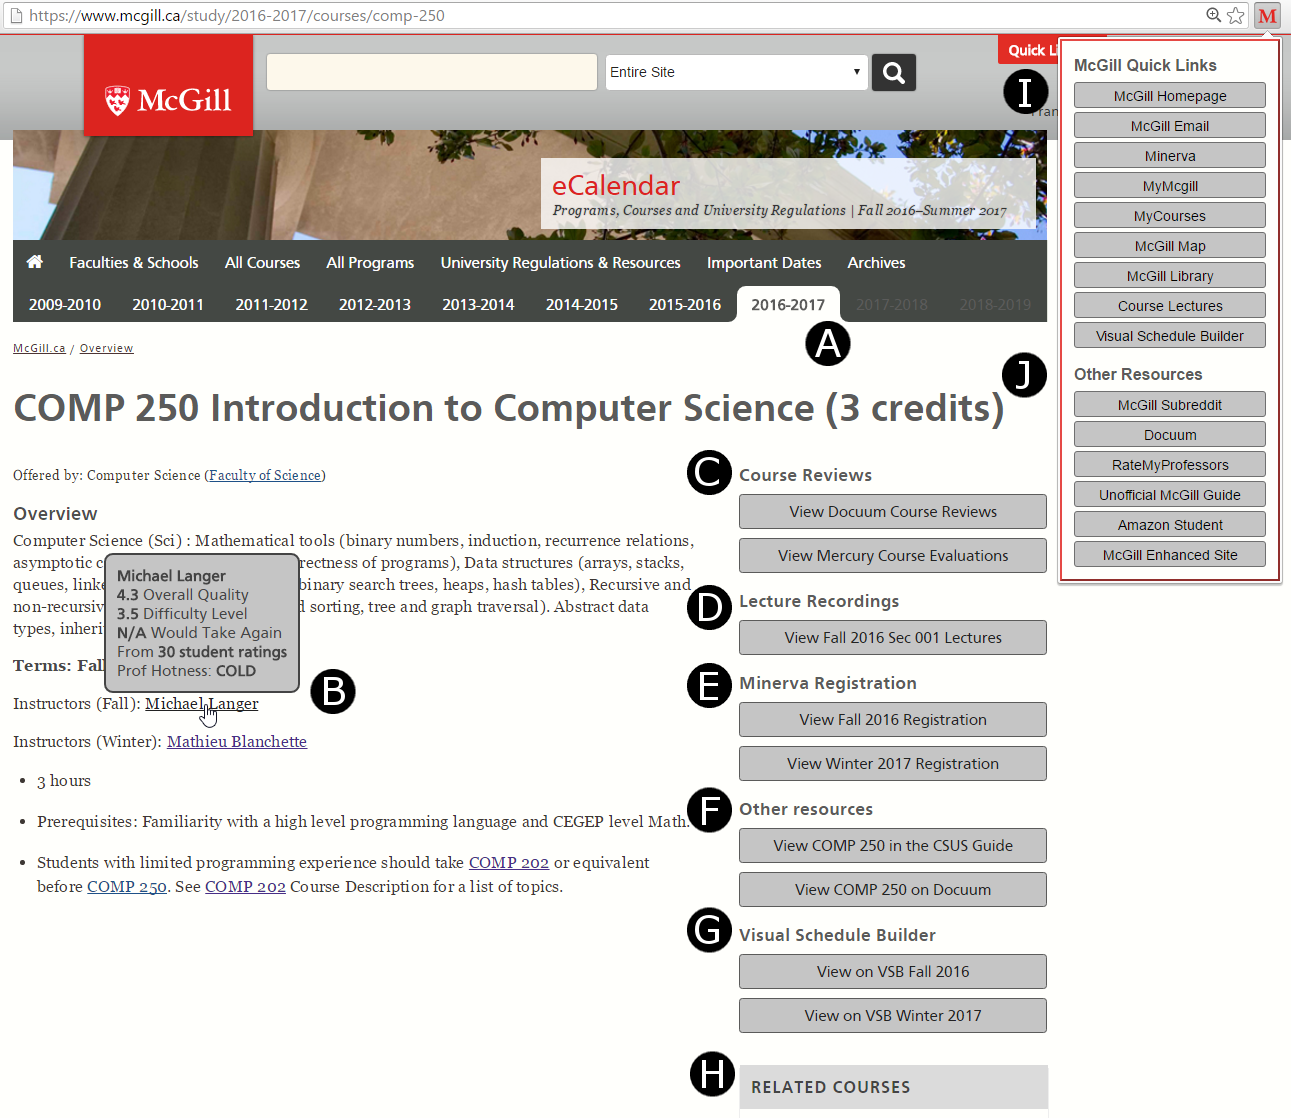
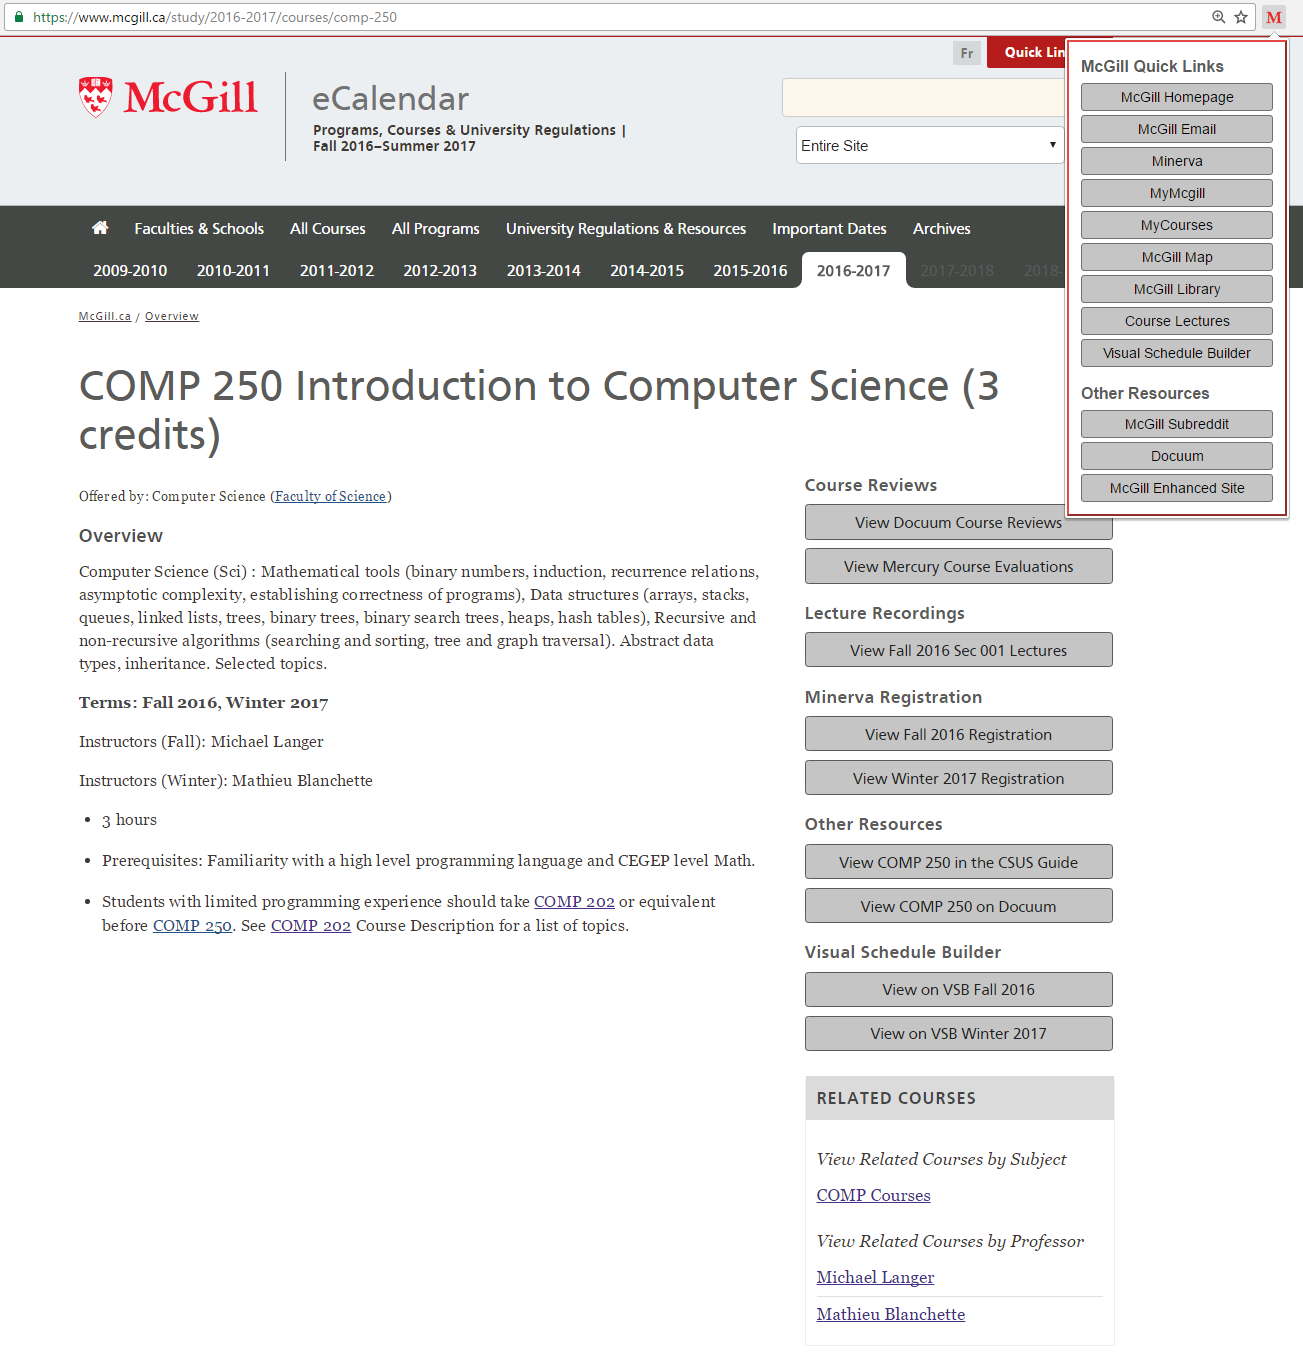
update features page

diff --git a/features.html b/features.html
@@ -54,89 +54,13 @@
 <br>
 
   <h3 style="text-align:center;">
-    <a id="mcgill-pages" class="anchor" href="#mcgill-pages" aria-hidden="true"><span aria-hidden="true" class="octicon octicon-link"></span></a>
-    McGill.ca Course Overview Pages
-  </h3>
-
-    <h4>
-      <a id="year-menu" class="anchor" href="#year-menu" aria-hidden="true"><span aria-hidden="true" class="octicon octicon-link"></span></a>
-      A) Year Menu Bar
-    </h4>
-    <p>
-      If you end up on another year's version of a given McGill.ca page, quickly jump to the current year's version or any other year by using the year menu bar.
-    </p>
-
-    <h4>
-      <a id="rmp-integration" class="anchor" href="#rmp-integration" aria-hidden="true"><span aria-hidden="true" class="octicon octicon-link"></span></a>
-      B) RateMyProfessors Integration
-    </h4>
-    <p>
-      Instead of manually searching for professor ratings, McGill enhanced will fetch professor ratings and show them in a tooltip when you hover over a professor name. Clicking the name will bring you to their RateMyProfessors page.
-    </p>
-
-    <img src="images/features-mcgill.png" alt="" style="width:100%;">
-
-    <br><br>
-
-
-    <h4>
-      <a id="sidebar-course-reviews" class="anchor" href="#sidebar-course-reviews" aria-hidden="true"><span aria-hidden="true" class="octicon octicon-link"></span></a>
-      C) Sidebar: Course Reviews
-    </h4>
-    <p>
-      Access Docuum course reviews and Mercury course evaluations (must already be logged into the Minerva system) directly from the sidebar of a course overview page.
-    </p>
-
-    <h4>
-      <a id="sidebar-lecture-recordings" class="anchor" href="#sidebar-lecture-recordings" aria-hidden="true"><span aria-hidden="true" class="octicon octicon-link"></span></a>
-      D) Sidebar: Lecture Recordings
-    </h4>
-    <p>
-      Access archived lecture recordings for certain courses (these archives are hosted at <a href="https://lrs.mcgill.ca/">lrs.mcgill.ca</a>) from the sidebar of a course overview page.
-    </p>
-
-    <h4>
-      <a id="sidebar-minerva-registration" class="anchor" href="#sidebar-minerva-registration" aria-hidden="true"><span aria-hidden="true" class="octicon octicon-link"></span></a>
-      E) Sidebar: Minerva Registration
-    </h4>
-    <p>
-      Access the Minerva registration page for a course directly from the sidebar (must already be logged into the Minerva system).
-    </p>
-
-    <h4>
-      <a id="sidebar-other" class="anchor" href="#sidebar-other" aria-hidden="true"><span aria-hidden="true" class="octicon octicon-link"></span></a>
-      F) Sidebar: Other Resources
-    </h4>
-    <p>
-      Access course documents in Docuum or other resources for a given course (such as the CSUS guide for COMP courses) from the sidebar.
-    </p>
-
-    <h4>
-      <a id="sidebar-vsb" class="anchor" href="#sidebar-vsb" aria-hidden="true"><span aria-hidden="true" class="octicon octicon-link"></span></a>
-      G) Sidebar: Visual Schedule Builder 
-    </h4>
-    <p>
-      Access the Visual Schedule Builder course listing for a course directly from the sidebar.
-    </p>
-
-    <h4>
-      <a id="sidebar-related-courses" class="anchor" href="#sidebar-related-courses" aria-hidden="true"><span aria-hidden="true" class="octicon octicon-link"></span></a>
-      H) Sidebar: Related Courses
-    </h4>
-    <p>
-      View all courses taught by the professors mentioned in the current course overview page or other courses in the programs mentioned in the current course overview page.
-    </p>
-
-  <br>
-
-  <h3 style="text-align:center;">
     <a id="extension-menu" class="anchor" href="#extension-menu" aria-hidden="true"><span aria-hidden="true" class="octicon octicon-link"></span></a>
     Extension Menu
   </h3>
 
     <h4>
       <a id="quick-links-menu" class="anchor" href="#quick-links-menu" aria-hidden="true"><span aria-hidden="true" class="octicon octicon-link"></span></a>
-      I) McGill Quick Links
+      McGill Quick Links
     </h4>
     <p>
       Click on the McGill Enhanced icon in the chrome menu bar to access the extension menu and various McGill quick links such as email, Minerva, MyCourses, etc.
@@ -144,13 +68,87 @@
 
     <h4>
       <a id="other-resources-menu" class="anchor" href="#other-resources-menu" aria-hidden="true"><span aria-hidden="true" class="octicon octicon-link"></span></a>
-      J) Other Resources
+      Other Resources
     </h4>
     <p>
       In addition to the McGill quick links, you can also access other useful resources from the McGill Enhanced menu.
     </p>
 
+
   <br>
+
+
+  <h3 style="text-align:center;">
+    <a id="mcgill-pages" class="anchor" href="#mcgill-pages" aria-hidden="true"><span aria-hidden="true" class="octicon octicon-link"></span></a>
+    McGill.ca Course Overview Pages
+  </h3>
+
+    <h4>
+      <a id="year-menu" class="anchor" href="#year-menu" aria-hidden="true"><span aria-hidden="true" class="octicon octicon-link"></span></a>
+      Year Menu Bar
+    </h4>
+    <p>
+      If you end up on another year's version of a given McGill.ca page, quickly jump to the current year's version or any other year by using the year menu bar.
+    </p>
+
+    <img src="images/features-mcgill.png" alt="" style="width:100%;">
+    <br>
+
+
+  <br>
+
+
+    <h4>
+      <a id="sidebar-course-reviews" class="anchor" href="#sidebar-course-reviews" aria-hidden="true"><span aria-hidden="true" class="octicon octicon-link"></span></a>
+      Sidebar: Course Reviews
+    </h4>
+    <p>
+      Access Docuum course reviews and Mercury course evaluations (must already be logged into the Minerva system) directly from the sidebar of a course overview page.
+    </p>
+
+    <h4>
+      <a id="sidebar-lecture-recordings" class="anchor" href="#sidebar-lecture-recordings" aria-hidden="true"><span aria-hidden="true" class="octicon octicon-link"></span></a>
+      Sidebar: Lecture Recordings
+    </h4>
+    <p>
+      Access archived lecture recordings for certain courses (these archives are hosted at <a href="https://lrs.mcgill.ca/">lrs.mcgill.ca</a>) from the sidebar of a course overview page.
+    </p>
+
+    <h4>
+      <a id="sidebar-minerva-registration" class="anchor" href="#sidebar-minerva-registration" aria-hidden="true"><span aria-hidden="true" class="octicon octicon-link"></span></a>
+      Sidebar: Minerva Registration
+    </h4>
+    <p>
+      Access the Minerva registration page for a course directly from the sidebar (must already be logged into the Minerva system).
+    </p>
+
+    <h4>
+      <a id="sidebar-other" class="anchor" href="#sidebar-other" aria-hidden="true"><span aria-hidden="true" class="octicon octicon-link"></span></a>
+      Sidebar: Other Resources
+    </h4>
+    <p>
+      Access course documents in Docuum or other resources for a given course (such as the CSUS guide for COMP courses) from the sidebar.
+    </p>
+
+    <h4>
+      <a id="sidebar-vsb" class="anchor" href="#sidebar-vsb" aria-hidden="true"><span aria-hidden="true" class="octicon octicon-link"></span></a>
+      Sidebar: Visual Schedule Builder 
+    </h4>
+    <p>
+      Access the Visual Schedule Builder course listing for a course directly from the sidebar.
+    </p>
+
+    <h4>
+      <a id="sidebar-related-courses" class="anchor" href="#sidebar-related-courses" aria-hidden="true"><span aria-hidden="true" class="octicon octicon-link"></span></a>
+      Sidebar: Related Courses
+    </h4>
+    <p>
+      View all courses taught by the professors mentioned in the current course overview page or other courses in the programs mentioned in the current course overview page.
+    </p>
+
+
+  <br>
+
 
   <h3 style="text-align:center;">
     <a id="vsb-pages" class="anchor" href="#vsb-pages" aria-hidden="true"><span aria-hidden="true" class="octicon octicon-link"></span></a>
@@ -159,17 +157,19 @@
 
     <h4>
       <a id="vsb-registration" class="anchor" href="#vsb-registration" aria-hidden="true"><span aria-hidden="true" class="octicon octicon-link"></span></a>
-      K) One-Click Registration
+      One-Click Registration
     </h4>
     <p>
       Instead of having to copy the CRN codes from VSB and paste them into Minerva to register, simply click the McGill Enhanced button to register for your courses (must already be logged into Minerva).
     </p>
 
     <img src="images/features-vsb.png" alt="" style="width:100%;">
+    <br>
+    <br>
+
 
   <br>
-  <br>
-  <br>
+
 
   <h3 style="text-align:center;">
     <a id="minerva-pages" class="anchor" href="#minerva-pages" aria-hidden="true"><span aria-hidden="true" class="octicon octicon-link"></span></a>
@@ -178,7 +178,7 @@
 
     <h4>
       <a id="vsb-registration" class="anchor" href="#vsb-registration" aria-hidden="true"><span aria-hidden="true" class="octicon octicon-link"></span></a>
-      L) Schedule Downloader
+      Schedule Downloader
     </h4>
     <p>
       From Minerva > Student Menu > Registration Menu > View Student Schedule by Course Section, you can click the McGill Enhanced button to download your course schedule as a .ICS file which can then be imported into Google Calendar, Apple iCal, or Microsoft Outlook.
